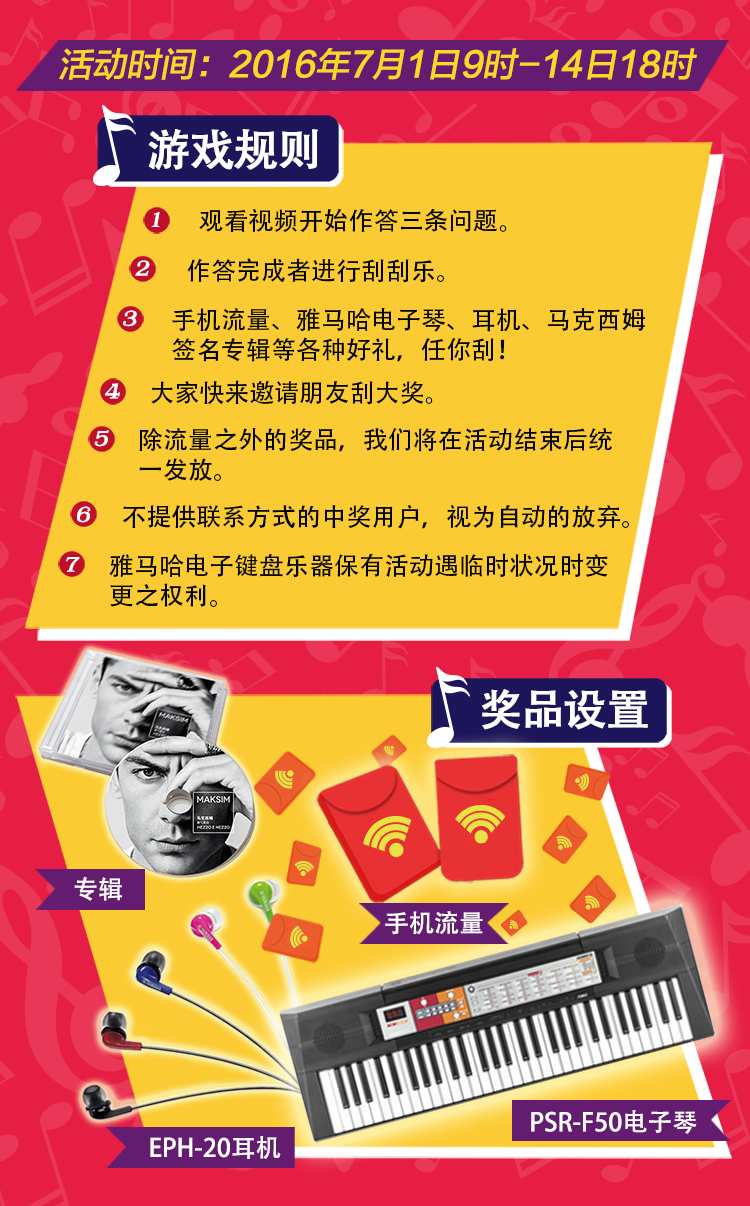
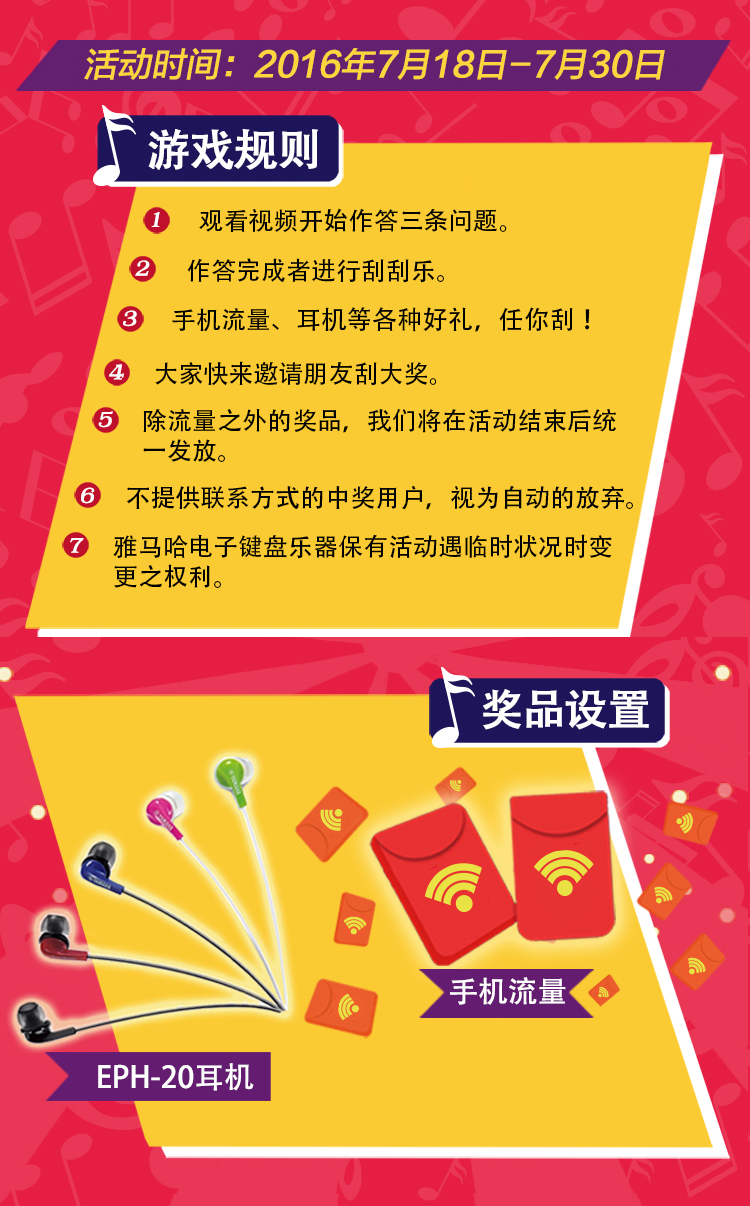
mmm

diff --git a/wechat/Controllers/Xinghe2Controller.cs b/wechat/Controllers/Xinghe2Controller.cs
@@ -15,7 +15,7 @@ namespace wechat.Controllers
 
             string openid = Session["openid"].ToString();
 
-          
+
 
             return View();
         }
@@ -112,12 +112,18 @@ namespace wechat.Controllers
                     {
                         try
                         {
-                            string url = "http://3g.qqwa.cn/api/SendMDataPakage_LZY.aspx?t=addorder&timestamp=" + Utils.Utils.ConvertDateTimeInt(DateTime.Now).ToString();
 
-                            String JsonStr = "{\"signature\":\"wanjing1\",\"token\":\"xinghe\",\"outid\":\"ql12354\",\"mobile\":\"" + ud.mobile + "\",\"amount\":" + ud.fee + "}";
+                            int ic = db.GGKs.Where(w => w.actname.Equals("兴和集邮票活动")).Count();
+
+                            if (ic <= 9000)
+                            {
+                                string url = "http://3g.qqwa.cn/api/SendMDataPakage_LZY.aspx?t=addorder&timestamp=" + Utils.Utils.ConvertDateTimeInt(DateTime.Now).ToString();
+
+                                String JsonStr = "{\"signature\":\"wanjing1\",\"token\":\"xinghe\",\"outid\":\"ql12354\",\"mobile\":\"" + ud.mobile + "\",\"amount\":" + ud.fee + "}";
 
 
-                            Utils.HttpService.PostJson(url, JsonStr);
+                                Utils.HttpService.PostJson(url, JsonStr);
+                            }
                         }
                         catch (Exception ex)
                         {

diff --git a/wechat/Controllers/Yamaha1Controller.cs b/wechat/Controllers/Yamaha1Controller.cs
@@ -16,7 +16,7 @@ namespace wechat.Controllers
         public ActionResult Login(string code)
         {
 
-            if(DateTime.Now> DateTime.Parse("2016-07-14 18:00:00"))
+            if(DateTime.Now> DateTime.Parse("2016-07-30 23:59:59"))
             {
 
                 return View("gameover");
@@ -54,11 +54,11 @@ namespace wechat.Controllers
 
                 LitJson.JsonData jd1 = LitJson.JsonMapper.ToObject(jons);
 
-                if (jd1["subscribe"].ToString() != "1")
-                {
-                    return RedirectToAction("guanzhu");
+                //if (jd1["subscribe"].ToString() != "1")
+                //{
+                //    return RedirectToAction("guanzhu");
 
-                }
+                //}
                 try
                 {
                     var wu = db.WechatUsers.SingleOrDefault(w => w.openid == jd.openid);
@@ -359,6 +359,12 @@ namespace wechat.Controllers
         {
             return View();
         }
+        public ActionResult pcer()
+        {
+            return View();
+        }
+
+
         [HttpPost]
         [ValidateAntiForgeryToken]
         public ActionResult AddLL(Models.GGK ggk)

diff --git a/wechat/Controllers/Qilingpijiu1Controller.cs b/wechat/Controllers/Qilingpijiu1Controller.cs
@@ -56,7 +56,7 @@ namespace wechat.Controllers
 
 
             au.img1 = Utils.WeHelper.GetMultimedia();
-
+            au.img2 = "麒麟啤酒青春bar到";
             au.ctime = DateTime.Now;
 
             
